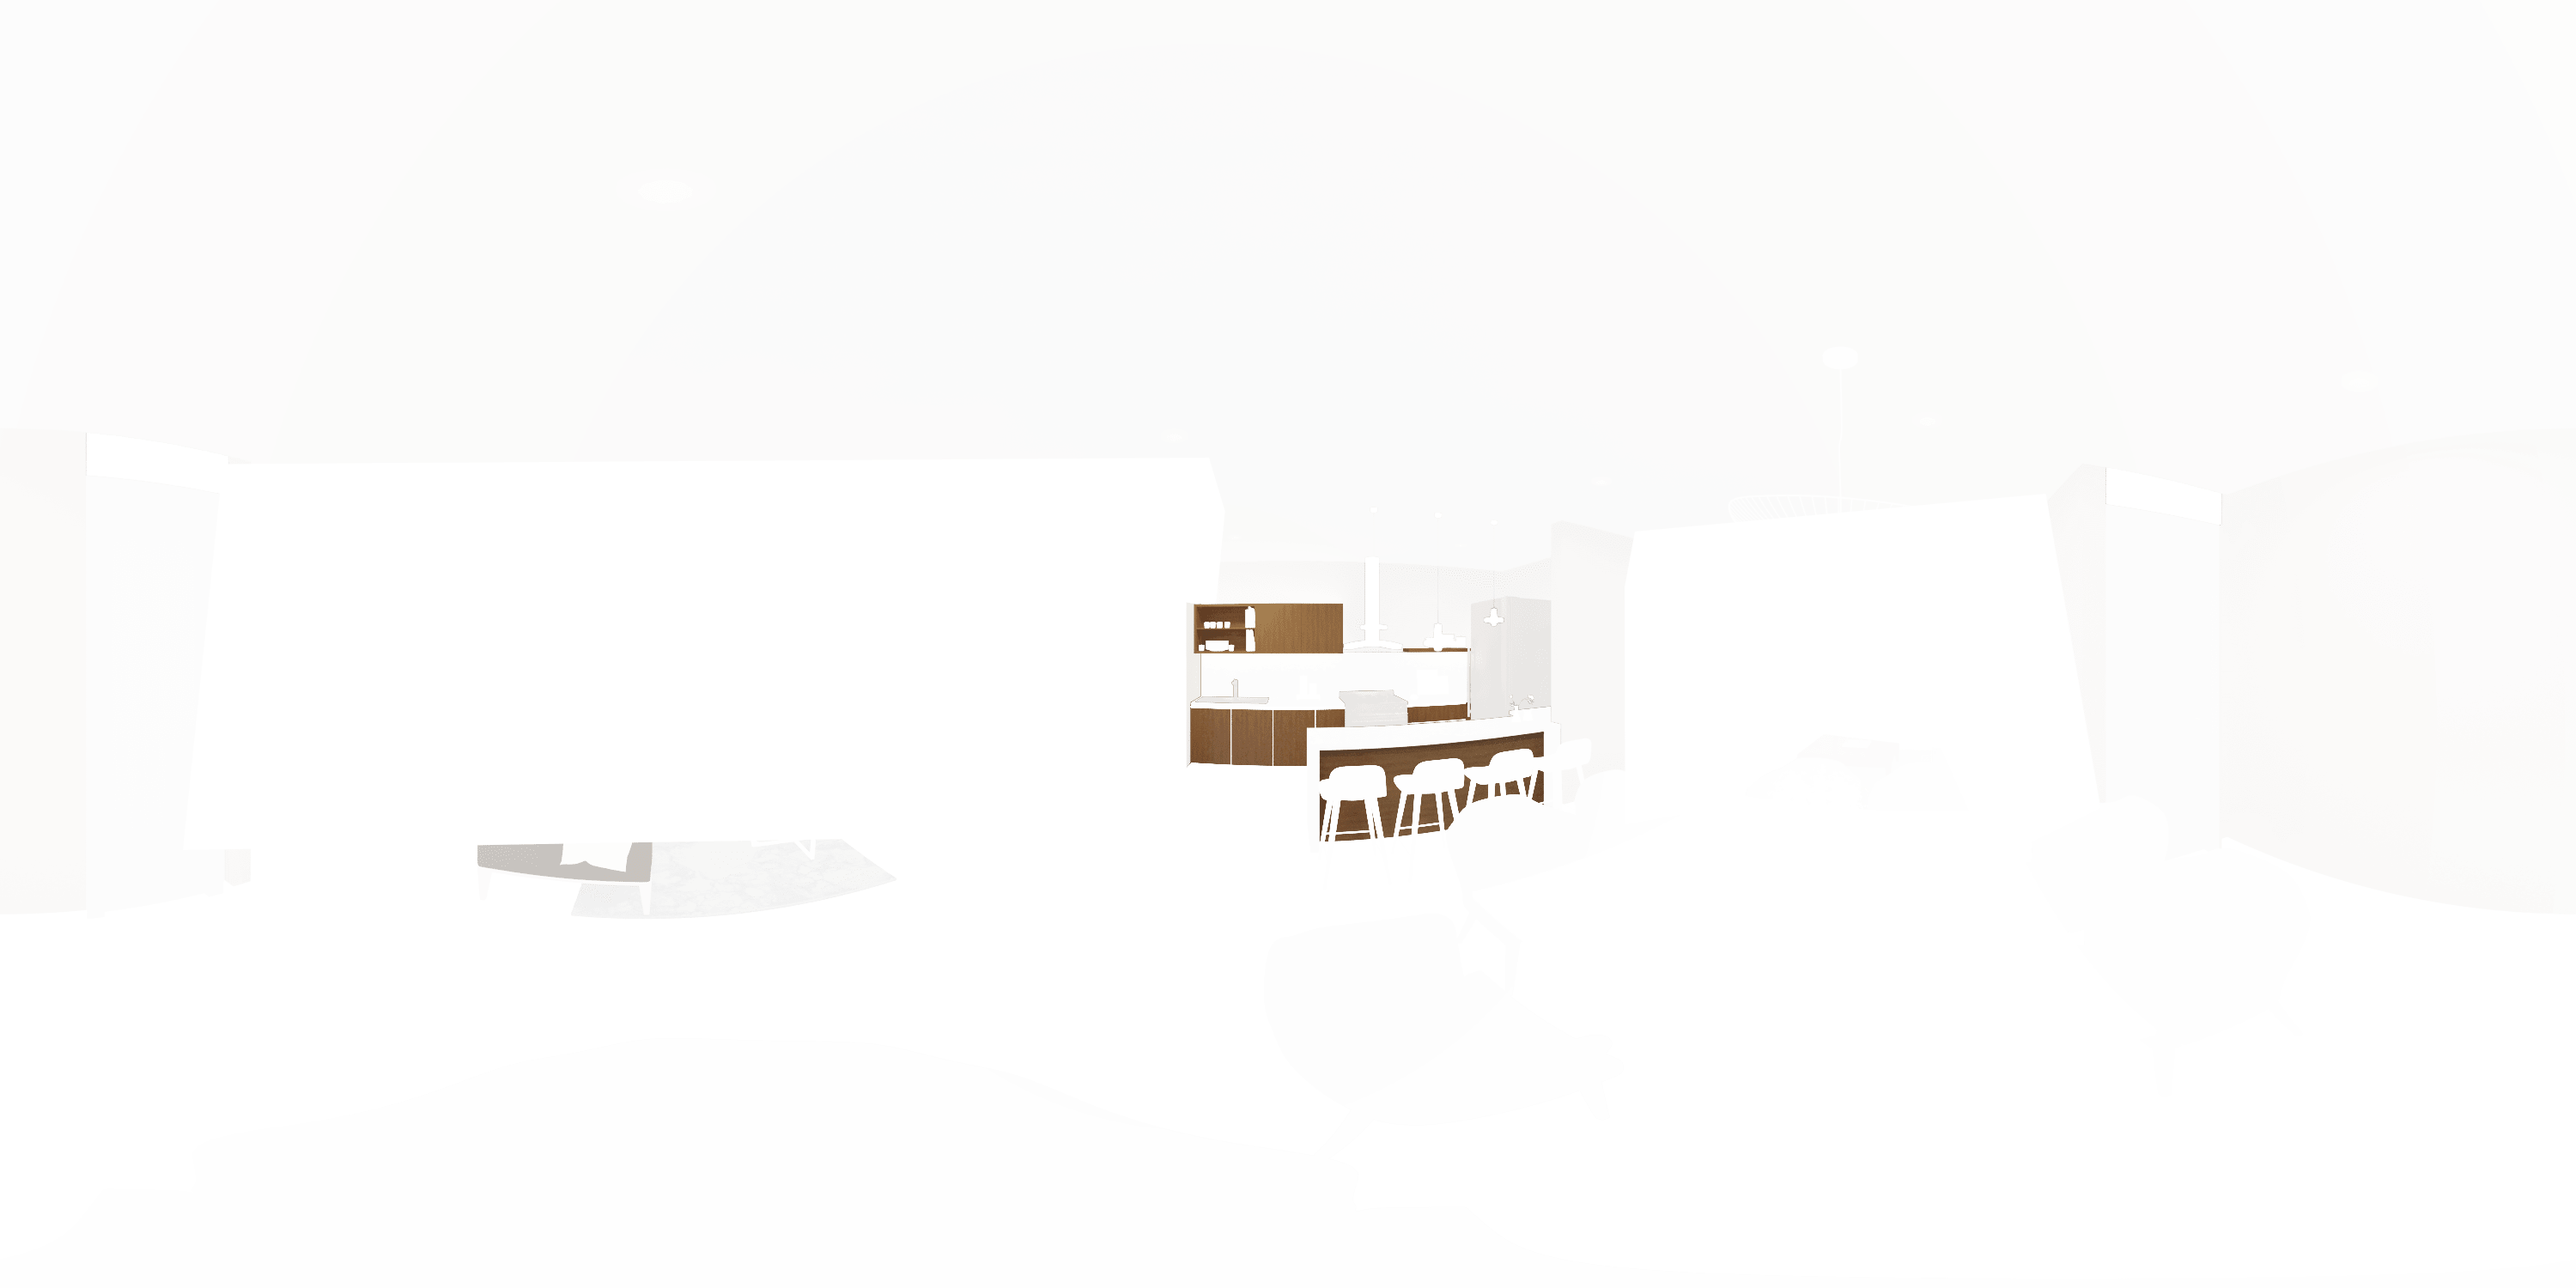
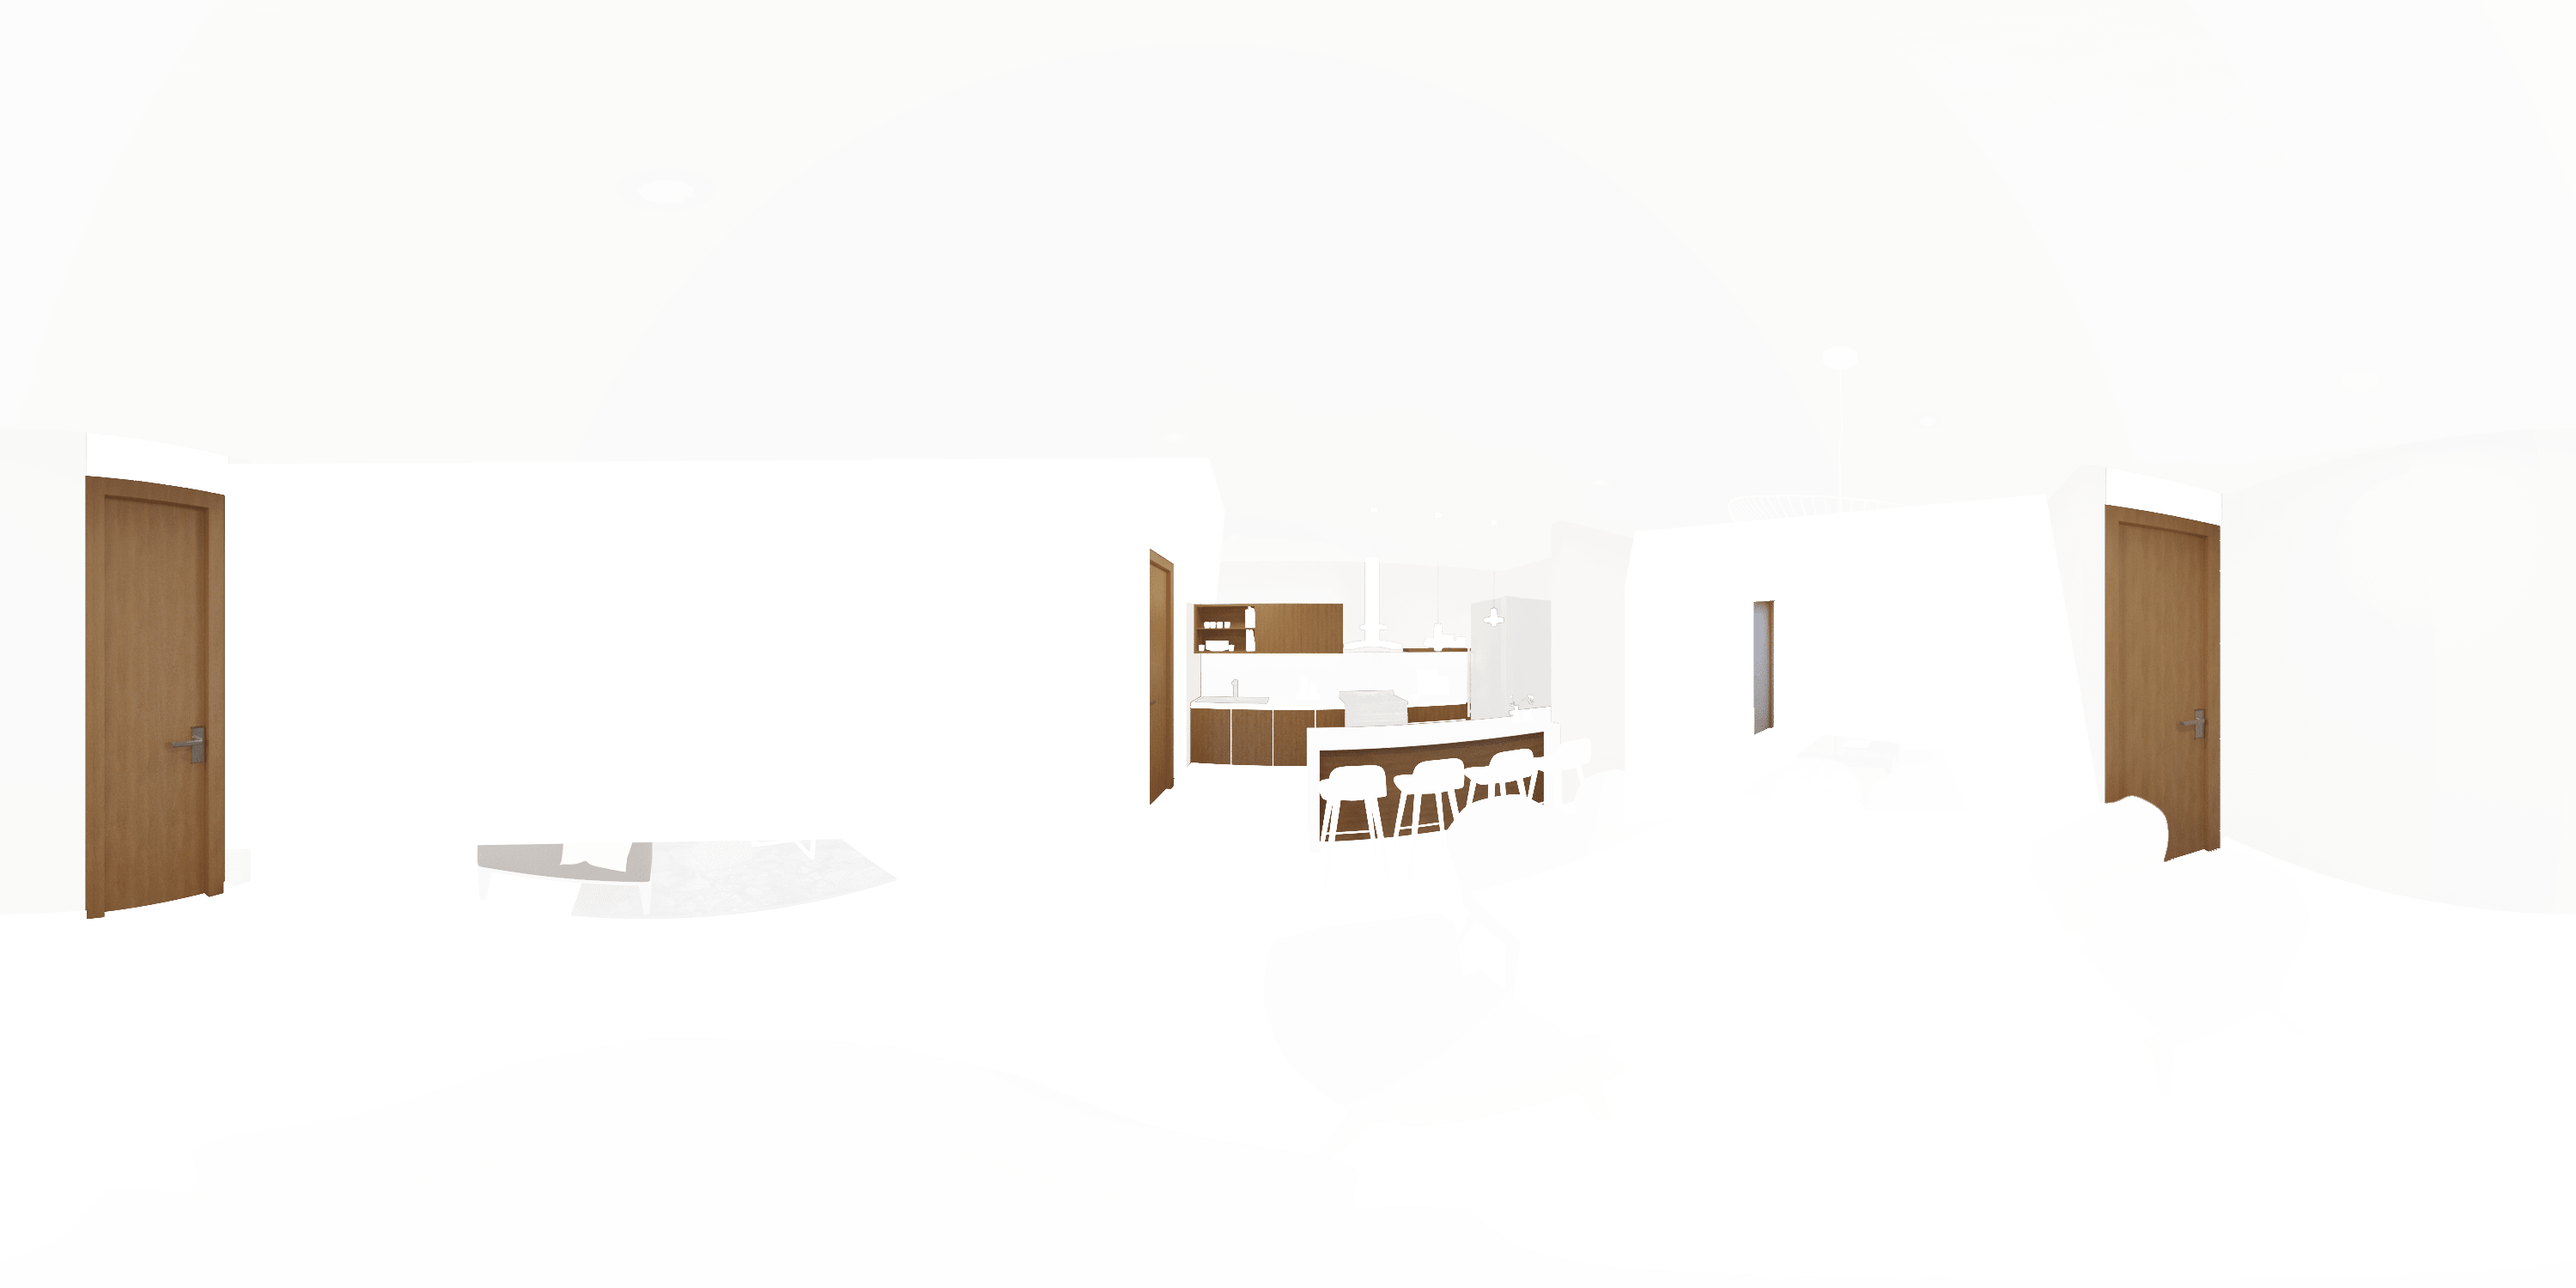
Vista adicional
· Agrega una vista adicional 360
· Agrega navegadores entre páginas.

diff --git a/css/room-config.min.css b/css/room-config.min.css
@@ -357,7 +357,8 @@ a-scene {
   bottom: 0;
   right: 0;
   width: 100%;
-  text-align: center; }
+  text-align: center;
+  font-size: 1rem; }
 
 .main-menu-img {
   position: absolute;
@@ -373,7 +374,8 @@ a-scene {
   position: absolute;
   text-align: left;
   width: auto;
-  padding-top: 7%; }
+  padding-top: 2%;
+  font-size: 1.3rem; }
 
 .sub-menu-img {
   position: absolute;
@@ -418,7 +420,7 @@ a-scene {
   padding-top: 60%;
   background-color: transparent; }
 
-@media (max-width: 767px) {
+@media screen and (max-width: 767px) {
   .text-xs-center {
     text-align: center !important; }
 
@@ -444,7 +446,24 @@ a-scene {
     left: 0px; }
 
   .p-right-0-md-down {
-    right: 0px; } }
+    right: 0px; }
+
+  .main-menu-text {
+    font-size: 1.3rem; }
+
+  .sub-menu-text {
+    padding-top: 7%;
+    font-size: 1.2rem; }
+
+  .configurator-main-menu {
+    width: 20%; }
+
+  .configurator-sub-menu {
+    width: 60%;
+    margin-left: 20%; }
+
+  .configurator-sub-menu-spacer {
+    padding-top: 33%; } }
 @media screen and (min-width: 768px) {
   .mover-md-menos-10 {
     transform: translateX(-10px); }

diff --git a/scss/_estilos.scss b/scss/_estilos.scss
@@ -319,6 +319,7 @@ a-scene {
     right: 0;
     width: 100%;
     text-align: center;
+    font-size: 1rem;
 }
 
 .main-menu-img{
@@ -336,7 +337,8 @@ a-scene {
     position: absolute;
     text-align: left;
     width: auto;
-    padding-top: 7%;
+    padding-top: 2%;
+    font-size: 1.3rem;
 }
 
 .sub-menu-img{
@@ -395,7 +397,7 @@ a-scene {
 
 
 //and (max-device-width: 1024px)
-@media (max-width:767px) {
+@media screen and (max-width:767px) {
 	.text-xs-center {
 		text-align: center!important;
 	}	
@@ -433,5 +435,27 @@ a-scene {
 	}
 
 	//Estilos particulares
+    
+    .main-menu-text{
+        font-size: 1.3rem;
+    }
+    
+    .sub-menu-text{
+        padding-top: 7%;
+        font-size: 1.2rem;
+    }
+    
+    .configurator-main-menu{
+        width: 20%;
+    }
+    
+    .configurator-sub-menu{
+        width: 60%;
+        margin-left: 20%;
+    }
+    
+    .configurator-sub-menu-spacer{
+        padding-top: 33%;
+    }
 
 }

diff --git a/views/index.view.php b/views/index.view.php
@@ -27,7 +27,7 @@
         
         <!-- AFrame - Needs to be on head -->
         <?php echo $aframe_js; ?>
-        
+                
 	</head>
     <body>
 
@@ -35,7 +35,9 @@
     
         
         <a-scene style="position: absolute;">
-            <a-entity camera look-controls="reverseMouseDrag: true"></a-entity>
+            <!--<a-entity camera >
+            </a-entity>-->
+            
             <a-assets>
                 <img id="piso-1" src="img/piso_1-min.png">
                 <img id="piso-2" src="img/piso_2-min.png">
@@ -47,27 +49,57 @@
                 <img id="meseta-2" src="img/meseta_2-min.png">
                 <img id="meseta-3" src="img/meseta_3-min.png">
             </a-assets>
-            <a-sky src="img/fondo-min.jpg" rotation="0 125 0"
+            <a-sky src="img/fondo-min.jpg" rotation="0 0 0"
                    material="transparent: true; alphaTest: 0;"></a-sky>
-            <a-sky id="piso-1-item" src="#piso-1" rotation="0 125 0"
+            <a-sky id="piso-1-item" src="#piso-1" rotation="0 0 0"
                    material="transparent: true; alphaTest: 0;"></a-sky>
-            <a-sky id="piso-2-item" src="#piso-2" rotation="0 125 0"
+            <a-sky id="piso-2-item" src="#piso-2" rotation="0 0 0"
                    material="transparent: true; alphaTest: 0;"></a-sky>
-            <a-sky id="piso-3-item" src="#piso-3" rotation="0 125 0"
+            <a-sky id="piso-3-item" src="#piso-3" rotation="0 0 0"
                    material="transparent: true; alphaTest: 0;"></a-sky>
-            <a-sky id="gabinetes-1-item" src="#gabinetes-1" rotation="0 125 0"
+            <a-sky id="gabinetes-1-item" src="#gabinetes-1" rotation="0 0 0"
                    material="transparent: true; alphaTest: 0;"></a-sky>
-            <a-sky id="gabinetes-2-item" src="#gabinetes-2" rotation="0 125 0"
+            <a-sky id="gabinetes-2-item" src="#gabinetes-2" rotation="0 0 0"
                    material="transparent: true; alphaTest: 0;"></a-sky>
-            <a-sky id="gabinetes-3-item" src="#gabinetes-3" rotation="0 125 0"
+            <a-sky id="gabinetes-3-item" src="#gabinetes-3" rotation="0 0 0"
                    material="transparent: true; alphaTest: 0;"></a-sky>
-            <a-sky id="meseta-1-item" src="#meseta-1" rotation="0 125 0"
+            <a-sky id="meseta-1-item" src="#meseta-1" rotation="0 0 0"
                    material="transparent: true; alphaTest: 0;"></a-sky>
-            <a-sky id="meseta-2-item" src="#meseta-2" rotation="0 125 0"
+            <a-sky id="meseta-2-item" src="#meseta-2" rotation="0 0 0"
                    material="transparent: true; alphaTest: 0;"></a-sky>
-            <a-sky id="meseta-3-item" src="#meseta-3" rotation="0 125 0"
+            <a-sky id="meseta-3-item" src="#meseta-3" rotation="0 0 0"
                    material="transparent: true; alphaTest: 0;"></a-sky>
+            <!-- "button" -->
+            <a-entity 
+                      animation="property: geometry.radius; easing: linear; loop: true; from: 1.8; to: 2; dur: 2000"
+                      position="-20.4 0 -46.6" rotation="0 90 0" 
+                      geometry="primitive: torus; radius: 0.5; radiusTubular: 0.08; arc: 360"
+                      material="side: double; color:#1AB9A4">
+            </a-entity>
             
+            <a-entity 
+                      id="button-change-environment"
+                      animation="property: geometry.radius; easing: linear; loop: true; from: 0.9; to: 1; dur: 2000"
+                      class="clickable" position="-20.4 0 -46.6" rotation="0 90 0" 
+                      geometry="primitive: torus; radius: 0.4; radiusTubular: 0.45; arc: 360"
+                      material="side: double; color:#1AB9A4; opacity: 0.01">
+            </a-entity>
+            
+            <a-camera wasd-controls-enabled="false" look-controls="reverseMouseDrag: true" mouse-cursor>
+        
+                <!-- Entity with cursor component and rayOrigin: mouse -->
+                <a-entity cursor="rayOrigin: mouse;" raycaster="objects: .clickable;">
+                  <!-- Add any cursor geometry here -->
+                </a-entity>
+
+
+                <!-- Old Cursor -->
+                <!-- <a-cursor fuse="true" raycaster="objects: .clickable" fuse-timeout="1000"></a-cursor> -->
+
+              </a-camera>
+            
+            <a-entity hand-controls laser-controls raycaster="far: 70"></a-entity>
+
         </a-scene>
 
         <div class="configurator-main-menu container-fluid px-0">
@@ -76,8 +108,8 @@
                 <p class="main-menu-text" href="#">Piso</p>
             </div>
             <div id="btn-b" onclick="showMenuB()" class="col-12 configurator-menu-item">
-                <img class="main-menu-img" src="img/icons/madera-b.svg" />
-                <p class="main-menu-text" href="#">Gabinetes</p>
+                <img class="main-menu-img" src="img/icons/plank-b.svg" />
+                <p class="main-menu-text" href="#">Gabinetes y puertas</p>
             </div>
             <div id="btn-c" onclick="showMenuC()" class="col-12 configurator-menu-item">
                 <img class="main-menu-img" src="img/icons/countertop-b.svg" />
@@ -124,11 +156,11 @@
             <div class="col-12 configurator-sub-menu-spacer">
             </div>
             <div onclick="showMenuCOpA()" class="col-12 configurator-sub-menu-item">
-                <p class="sub-menu-text" href="#" style="color: white;">White Dalas</p>
+                <p class="sub-menu-text" href="#" style="color: white;">Granito White Dallas</p>
                 <img class="sub-menu-img" src="img/variaciones/variaciones-01.png" />
             </div>
             <div onclick="showMenuCOpB()" class="col-12 configurator-sub-menu-item">
-                <p class="sub-menu-text" href="#" style="color: white;">Sta. Cecilia</p>
+                <p class="sub-menu-text" href="#" style="color: white;">Granito Sta. Cecilia</p>
                 <img class="sub-menu-img" src="img/variaciones/variaciones-02.png" />
             </div>
             <div onclick="showMenuCOpC()" class="col-12 configurator-sub-menu-item">
@@ -136,8 +168,22 @@
                 <img class="sub-menu-img" src="img/variaciones/variaciones-03.png" />
             </div>
         </div>
+        
 
         <script>
+            
+            // Component to change to a sequential color on click.
+            var sceneEl = document.querySelector('a-scene');
+
+            var boxEl = sceneEl.querySelector('#button-change-environment');
+
+            boxEl.addEventListener('click', function(){
+
+                console.log("Click");
+                window.location.href = 'exterior.php';
+
+            });
+            
             var menuAOpA = document.querySelector("#piso-1-item");
             var menuAOpB = document.querySelector("#piso-2-item");
             var menuAOpC = document.querySelector("#piso-3-item");
@@ -373,7 +419,7 @@
 
 
 		<!-- Javascripts own files  -->
-		<?php echo $own_file_js; ?>
+		
 
 		<?php echo $bootstrap_v4_js; ?>
 

diff --git a/views/exterior.view.php b/views/exterior.view.php
@@ -1,0 +1,110 @@
+<?php require_once('admin/config.php'); ?>
+<!DOCTYPE html>
+<html lang="es">
+	<head>
+		<meta charset="UTF-8">
+    	<meta name="viewport" content="width=device-width, initial-scale=1, shrink-to-fit=no">
+		<title>Configurador</title>
+
+		<meta property="og:url"                content="<?php echo $URL; ?>" />
+		<meta property="og:type"               content="website" />
+		<meta property="og:title"              content="Exterior" />
+		<meta property="og:description"        content="Lorem ipsum dolor sit amet, consectetur adipisicing elit, sed do eiusmod
+		tempor incididunt ut labore et dolore magna aliqua. Ut enim ad minim veniam, quis nostrud exercitation ullamco laboris nisi ut aliquip ex ea commodo
+		consequat. " />
+		<meta property="og:image"              content="<?php echo $URL; ?>/img/sharing/example.png" />
+
+		<?php echo $favicon; ?>
+		<?php echo $normalize_css; ?>
+		<?php echo $boostrap_v4_css ?>
+
+		<!-- Font awesome -->
+		<?php echo $font_awesome_css; ?>
+		<!-- CSS own files -->
+		<?php echo $own_file_css; ?>
+		
+		<?php echo $google_analitycs; ?>
+        
+        <!-- AFrame - Needs to be on head -->
+        <?php echo $aframe_js; ?>
+                
+	</head>
+    <body>
+
+		<?php require("views/navbar.view.php"); ?>
+    
+        
+        <a-scene style="position: absolute;">
+            <!--<a-entity camera >
+            </a-entity>-->
+
+            <a-sky src="img/exteriores-min.jpg" rotation="0 -110 0"
+                   material="transparent: true; alphaTest: 0;"></a-sky>
+            <!-- "button" -->
+            <a-entity 
+                      animation="property: geometry.radius; easing: linear; loop: true; from: 0.8; to: 0.9; dur: 2000"
+                      position="-7.5 2 -15" rotation="0 90 0" 
+                      geometry="primitive: torus; radius: 0.5; radiusTubular: 0.04; arc: 360"
+                      material="side: double; color:#1AB9A4">
+            </a-entity>
+            
+            <a-entity 
+                      id="button-change-environment"
+                      animation="property: geometry.radius; easing: linear; loop: true; from: 0.8; to: 0.9; dur: 2000"
+                      class="clickable" position="-7.5 2 -15" rotation="0 90 0" 
+                      geometry="primitive: sphere; radius: 2"
+                      material="side: double; color:#1AB9A4; opacity: 0.01">
+            </a-entity>
+            
+            <a-camera wasd-controls-enabled="false" look-controls="reverseMouseDrag: true" mouse-cursor>
+      
+        
+                <!-- Entity with cursor component and rayOrigin: mouse -->
+                <a-entity cursor="rayOrigin: mouse;" raycaster="objects: .clickable;">
+                  <!-- Add any cursor geometry here -->
+                </a-entity>
+
+
+                <!-- Old Cursor -->
+                <!-- <a-cursor fuse="true" raycaster="objects: .clickable" fuse-timeout="1000"></a-cursor> -->
+
+            </a-camera>
+            
+            <a-entity hand-controls laser-controls raycaster="far: 70"></a-entity>
+            
+        </a-scene>
+        
+        <script>
+            
+            // Component to change to a sequential color on click.
+            var sceneEl = document.querySelector('a-scene');
+
+            var boxEl = sceneEl.querySelector('#button-change-environment');
+
+            boxEl.addEventListener('click', function(){
+
+                console.log("Click");
+                window.location.href = 'index.php';
+
+            });
+        </script>
+            
+        <script  src="js/index.js"></script>
+
+		<?php require("views/footer.view.php"); ?>	
+		
+		<!-- jQuery first, then Tether, then Bootstrap JS. -->
+		<?php echo $jquery_js; ?>
+		<?php echo $tether_js; ?>
+
+
+		<!-- Javascripts own files  -->
+		
+
+		<?php echo $bootstrap_v4_js; ?>
+
+		<?php echo $font_awesome_js; ?>
+        
+		
+	</body>
+</html>

diff --git a/exterior.php b/exterior.php
@@ -1,0 +1,1 @@
+<?php require("views/exterior.view.php"); ?>
